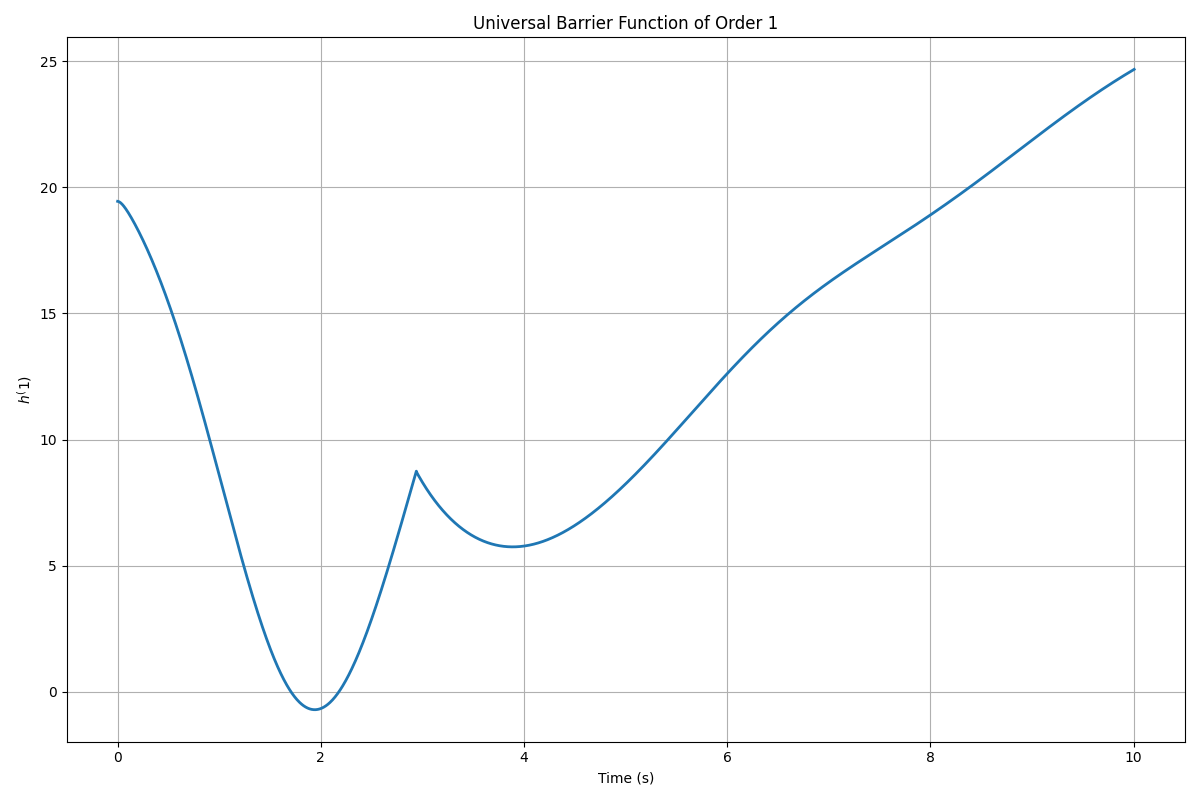
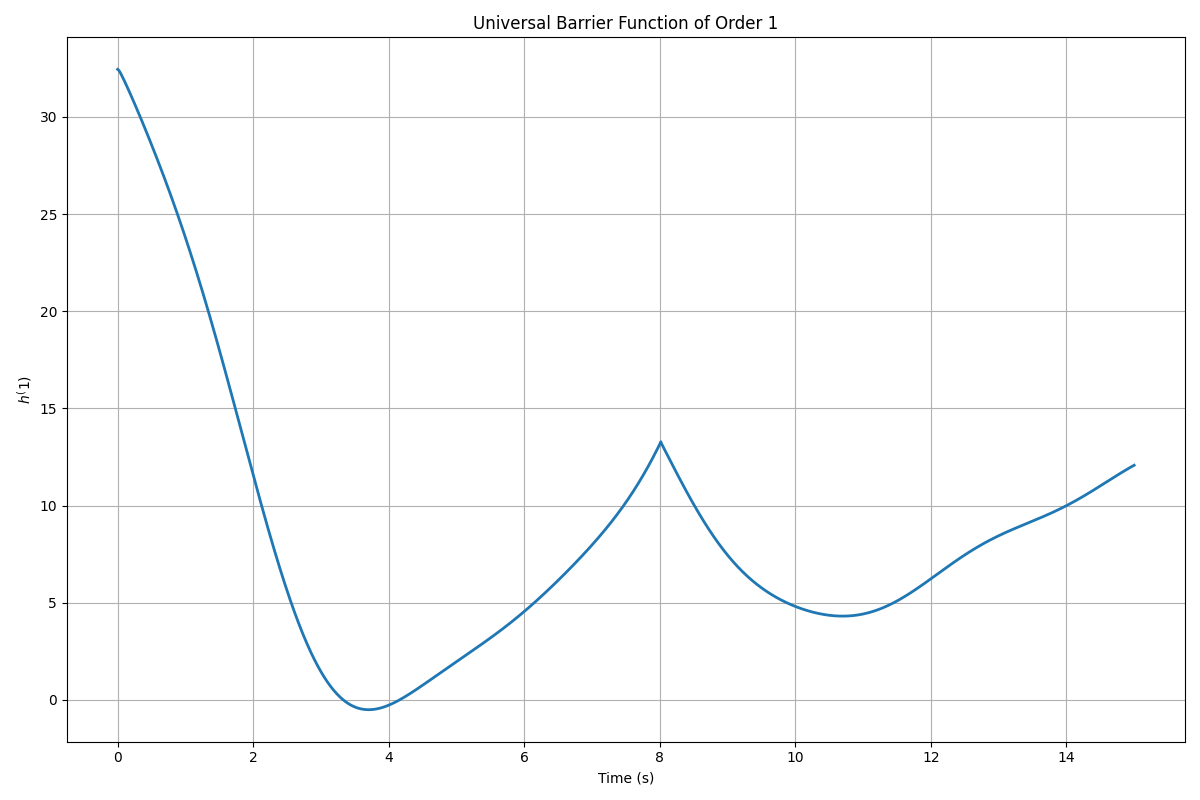
Add files via upload

diff --git a/run_quadrotor.py b/run_quadrotor.py
@@ -1,5 +1,6 @@
 """
 Run an optimized version of the quadrotor simulation and save all plots as image files.
+With debug information to identify performance bottlenecks.
 """
 
 import numpy as np
@@ -7,6 +8,13 @@ import matplotlib
 matplotlib.use('Agg')  # Use non-interactive backend to prevent display windows
 import matplotlib.pyplot as plt
 from ubf.systems import quadrotor
+import time as timing
+import sys
+
+# Increase the control gains to make the quadrotor reach the goal faster
+print("Setting quadrotor control gains...")
+quadrotor.alpha = 50.0     # Increase from 25.0 to 50.0
+quadrotor.alpha_ubf = 5.0  # Increase from 3.0 to 5.0
 
 # Override the visualize_results function to save plots to files
 original_visualize = quadrotor.visualize_results
@@ -15,32 +23,39 @@ def save_visualize_results(time, x_traj, u_traj, h_traj):
     """
     Modified visualization function that saves plots to files instead of displaying them.
     """
+    print("Starting to generate plots...")
+    
     # 1. 3D Trajectory plot
+    print("Generating 3D trajectory plot...")
     fig = plt.figure(figsize=(12, 10))
     ax = fig.add_subplot(111, projection='3d')
     ax.plot(x_traj[0, :], x_traj[1, :], x_traj[2, :], 'b-', linewidth=2, label='Trajectory')
     ax.scatter(quadrotor.x_goal[0], quadrotor.x_goal[1], quadrotor.x_goal[2], c='r', s=100, label='Goal Position')
     
-    theta = np.linspace(0, 2*np.pi, 100)
-    phi_plot = np.linspace(0, np.pi, 50)
+    # Use fewer points in the mesh grid for faster plotting
+    theta = np.linspace(0, 2*np.pi, 20)  # Reduced from 100
+    phi_plot = np.linspace(0, np.pi, 10)  # Reduced from 50
     Theta, Phi = np.meshgrid(theta, phi_plot)
     
     r1 = np.sqrt(0.4)
     x_obs1 = 3 + r1 * np.sin(Phi) * np.cos(Theta)
     y_obs1 = 3 + r1 * np.sin(Phi) * np.sin(Theta)
     z_obs1 = 3 + r1 * np.cos(Phi)
+    print("  Adding obstacle 1...")
     ax.plot_surface(x_obs1, y_obs1, z_obs1, color='r', alpha=0.3, edgecolor='none')
     
     r2 = np.sqrt(0.25)
     x_obs2 = 1.5 + r2 * np.sin(Phi) * np.cos(Theta)
     y_obs2 = 1.5 + r2 * np.sin(Phi) * np.sin(Theta)
     z_obs2 = 2.0 + r2 * np.cos(Phi)
+    print("  Adding obstacle 2...")
     ax.plot_surface(x_obs2, y_obs2, z_obs2, color='g', alpha=0.3, edgecolor='none')
     
     z_ground = 0.5
     ground_x = np.array([-10, 10, 10, -10])
     ground_y = np.array([-10, -10, 10, 10])
     ground_z = np.array([z_ground]*4)
+    print("  Adding ground surface...")
     ax.plot_trisurf(ground_x, ground_y, ground_z, color='c', alpha=0.1, edgecolor='none')
     
     ax.set_xlabel('x')
@@ -49,10 +64,12 @@ def save_visualize_results(time, x_traj, u_traj, h_traj):
     ax.set_title('3D Trajectory with Integral Controller and UBF')
     ax.legend()
     plt.tight_layout()
+    print("  Saving 3D trajectory plot...")
     plt.savefig('quadrotor_3d_trajectory.png')
     plt.close()
     
     # 2. Barrier Function Values
+    print("Generating barrier function plots...")
     plt.figure(figsize=(12, 8))
     for order in range(quadrotor.m_order):
         plt.subplot(quadrotor.m_order, 1, order+1)
@@ -62,10 +79,12 @@ def save_visualize_results(time, x_traj, u_traj, h_traj):
         plt.title(f'Universal Barrier Function of Order {order+1}')
         plt.grid(True)
     plt.tight_layout()
+    print("  Saving barrier function plots...")
     plt.savefig('quadrotor_barrier_functions.png')
     plt.close()
     
     # 3. Control Inputs
+    print("Generating control input plots...")
     plt.figure(figsize=(12, 10))
     for i in range(quadrotor.m):
         plt.subplot(quadrotor.m, 1, i+1)
@@ -75,10 +94,12 @@ def save_visualize_results(time, x_traj, u_traj, h_traj):
         plt.title(f'Control Input u_{i+1} Over Time')
         plt.grid(True)
     plt.tight_layout()
+    print("  Saving control input plots...")
     plt.savefig('quadrotor_control_inputs.png')
     plt.close()
     
     # 4. Control Input Norm
+    print("Generating control norm plot...")
     plt.figure(figsize=(10, 6))
     u_norm = np.linalg.norm(u_traj, axis=0)
     plt.plot(time, u_norm, linewidth=2)
@@ -87,6 +108,7 @@ def save_visualize_results(time, x_traj, u_traj, h_traj):
     plt.title('Norm of Control Input Over Time')
     plt.grid(True)
     plt.tight_layout()
+    print("  Saving control norm plot...")
     plt.savefig('quadrotor_control_norm.png')
     plt.close()
     
@@ -96,20 +118,155 @@ def save_visualize_results(time, x_traj, u_traj, h_traj):
     print("- quadrotor_control_inputs.png")
     print("- quadrotor_control_norm.png")
 
-# Modify parameters to make the simulation run faster
-# 1. Reduce simulation time
-quadrotor.tf = 10  
+# Fix the quadrotor simulation function to have a timeout
+original_run_simulation = quadrotor.run_simulation
+
+def run_simulation_with_timeout():
+    """Wrapper around the original run_simulation function with progress updates"""
+    print("Starting simulation with progress updates...")
+    
+    x_current = np.array([0, 0, 0.5, 0, 0, 0, 0, 0, 0, 0, 0, 0])
+    u_current = np.array([quadrotor.m_q * quadrotor.g, 0, 0, 0])
+    
+    x_traj = np.zeros((quadrotor.n, quadrotor.num_steps))
+    u_traj = np.zeros((quadrotor.m, quadrotor.num_steps))
+    h_traj = np.zeros((quadrotor.m_order, quadrotor.num_steps))
+    
+    x_traj[:, 0] = x_current
+    u_traj[:, 0] = u_current
+    for order in range(quadrotor.m_order):
+        h_traj[order, 0] = quadrotor.h_orders_global[order](x_current, u_current)
+    
+    # For longer simulation, we'll use all steps
+    # Report progress every 5% of total steps
+    max_steps = quadrotor.num_steps
+    progress_interval = max(1, int(max_steps * 0.05))
+    print(f"Will simulate {max_steps} steps (approximately {quadrotor.tf} seconds)")
+    print(f"Progress will be reported every {progress_interval} steps")
+    
+    # Report distance to goal at intervals
+    goal_distance_initial = np.linalg.norm(x_current[:3] - quadrotor.x_goal[:3])
+    print(f"Initial distance to goal: {goal_distance_initial:.2f} units")
+    print(f"Goal position: {quadrotor.x_goal[:3]}")
+    
+    # Keep track of closest approach to goal
+    closest_distance = goal_distance_initial
+    closest_step = 0
+    goal_reached = False
+    
+    simulation_start = timing.time()
+    for k in range(1, max_steps):
+        if k % progress_interval == 0 or k % 500 == 0:
+            # Calculate distance to goal for position components only
+            current_distance = np.linalg.norm(x_current[:3] - quadrotor.x_goal[:3])
+            
+            if current_distance < closest_distance:
+                closest_distance = current_distance
+                closest_step = k
+            
+            elapsed = timing.time() - simulation_start
+            est_total = (elapsed/k) * max_steps
+            print(f"Simulation step {k}/{max_steps} ({k/max_steps*100:.1f}%) - Distance to goal: {current_distance:.2f} units")
+            print(f"  Current position: {x_current[:3]}")
+            print(f"  Elapsed: {elapsed:.1f}s, Est. total: {est_total:.1f}s, Remaining: {est_total-elapsed:.1f}s")
+            
+        x = x_current.copy()
+        u = u_current.copy()
+        
+        A = quadrotor.dc_du(x, u)
+        b = quadrotor.x_goal - quadrotor.c_func(x, u)
+        phi_sol, _, _, _ = np.linalg.lstsq(A, b, rcond=None)
+        phi_val = quadrotor.alpha * phi_sol
+    
+        # Use the Jacobian from h_final to set up the QP.
+        p = quadrotor.dhm_du(x, u)  # Should have shape (1, m)
+        q = np.dot(quadrotor.dhm_dx(x, u), quadrotor.f(x, u)) + np.dot(quadrotor.dhm_du(x, u), phi_val) + quadrotor.alpha_ubf * (quadrotor.h_final(x, u) ** quadrotor.frac)
+        
+        import cvxpy as cp
+        v = cp.Variable(quadrotor.m)
+        objective = cp.Minimize(0.5 * cp.sum_squares(v))
+        constraints = [p @ v + q >= 0]
+        prob = cp.Problem(objective, constraints)
+        
+        try:
+            prob.solve(solver=cp.OSQP, verbose=False)
+            if v.value is None:
+                print(f"Warning: QP did not converge at step {k}")
+                v_star = np.zeros(quadrotor.m)
+            else:
+                v_star = v.value
+        except Exception as e:
+            print(f"QP solver error at step {k}: {e}")
+            v_star = np.zeros(quadrotor.m)
+    
+        du_dt = phi_val + v_star
+        u_new = u + du_dt * quadrotor.dt
+    
+        x_new = x + quadrotor.f(x, u_new) * quadrotor.dt
+    
+        for order in range(quadrotor.m_order):
+            h_traj[order, k] = quadrotor.h_orders_global[order](x_new, u_new)
+        
+        x_traj[:, k] = x_new
+        u_traj[:, k] = u_new
+        
+        x_current = x_new.copy()
+        u_current = u_new.copy()
+        
+        # Check if we've reached close to the goal
+        current_distance = np.linalg.norm(x_current[:3] - quadrotor.x_goal[:3])
+        if current_distance < 0.5 and not goal_reached:
+            goal_reached = True
+            print(f"\n*** GOAL REACHED at step {k} (distance: {current_distance:.2f}) ***\n")
+            # Continue simulation to show stabilization
+            
+        # Emergency stop if moving too far from goal
+        if current_distance > 3 * goal_distance_initial:
+            print(f"WARNING: Quadrotor diverging - distance {current_distance:.2f} exceeds 3x initial distance")
+            print(f"Current position: {x_current[:3]}")
+            break
+    
+    sim_time = timing.time() - simulation_start
+    print(f"Simulation completed in {sim_time:.2f} seconds!")
+    final_distance = np.linalg.norm(x_current[:3] - quadrotor.x_goal[:3])
+    print(f"Final distance to goal: {final_distance:.2f} units")
+    print(f"Closest approach to goal: {closest_distance:.2f} units (at step {closest_step})")
+    
+    return quadrotor.time, x_traj, u_traj, h_traj
+
+# Modify parameters to make the simulation run for longer while still being efficient
+# 1. Increase simulation time to allow reaching the goal
+quadrotor.tf = 15  # Reduced from 25 seconds to 15 seconds for faster completion
 quadrotor.time = np.arange(0, quadrotor.tf + quadrotor.dt, quadrotor.dt)
 quadrotor.num_steps = len(quadrotor.time)
 
-# 2. Reduce integration steps (original value is 615)
-quadrotor.N = 100
+# 2. Keep integration steps manageable (original value is 615)
+quadrotor.N = 30  # Maintain 30 steps
 quadrotor.T_int = quadrotor.N * quadrotor.Delta_tau
 
-# Override the visualization function
+# 3. Override the visualization and simulation functions
 quadrotor.visualize_results = save_visualize_results
 
 # Run the simulation
-print("Running optimized quadrotor simulation with file output...")
-quadrotor.main()
-print("Simulation complete.") 
+print("Running optimized quadrotor simulation with higher control gains...")
+start_time = timing.time()
+print(f"Starting simulation at: {start_time}")
+
+try:
+    # Override the main function to use our patched run_simulation
+    original_main = quadrotor.main
+    
+    def patched_main():
+        time_vec, x_traj, u_traj, h_traj = run_simulation_with_timeout()
+        save_visualize_results(time_vec, x_traj, u_traj, h_traj)
+    
+    quadrotor.main = patched_main
+    quadrotor.main()
+    
+    end_time = timing.time()
+    print(f"Simulation complete. Total time: {end_time - start_time:.2f} seconds")
+except Exception as e:
+    print(f"ERROR: Simulation failed with exception: {e}")
+    import traceback
+    traceback.print_exc()
+    sys.exit(1) 
